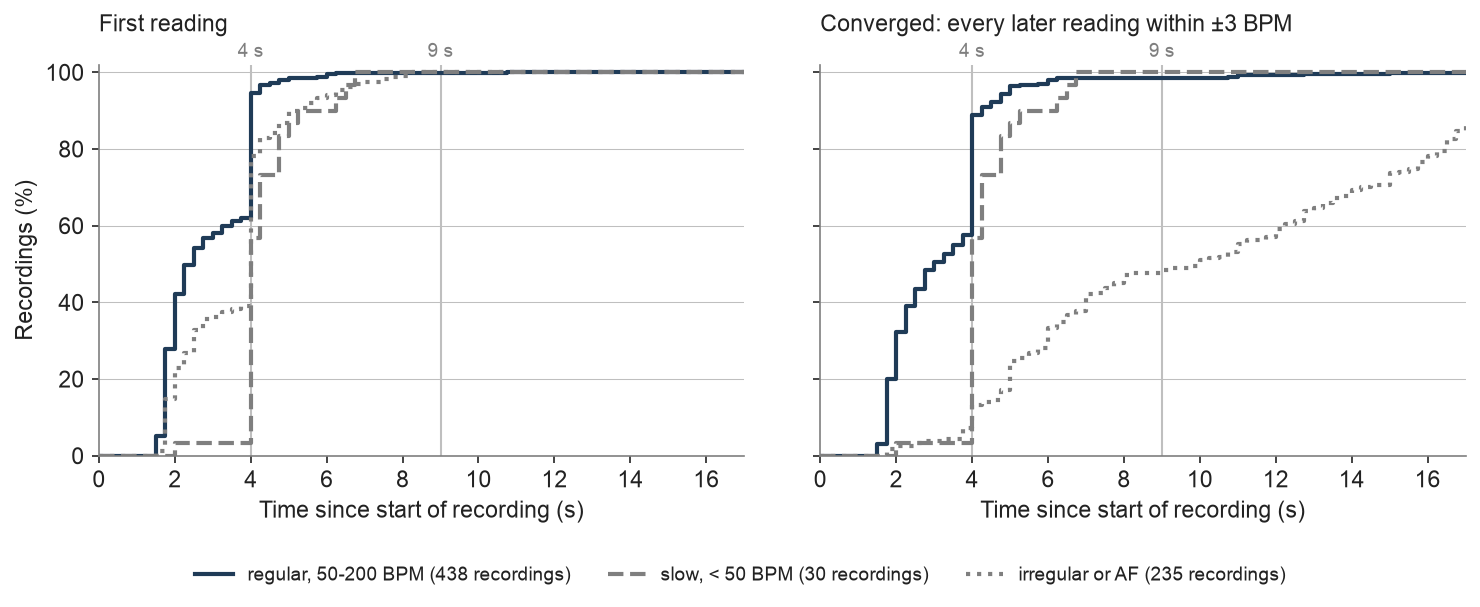
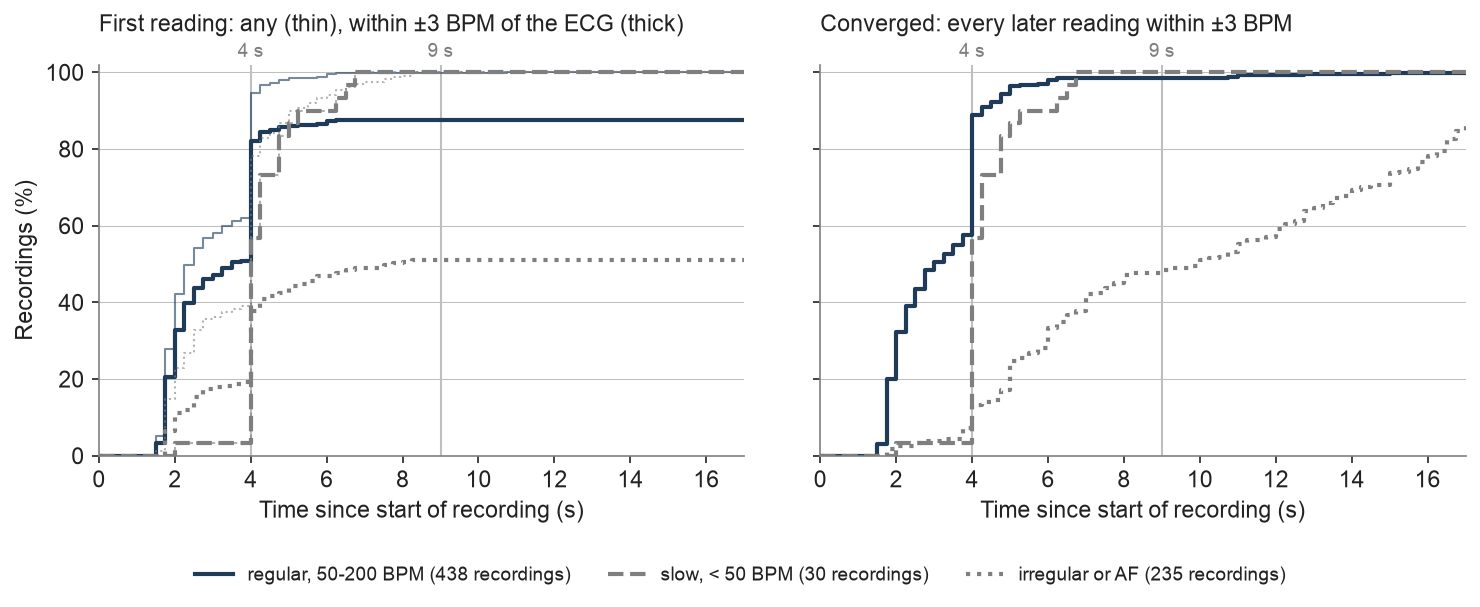
Show first-reading accuracy in the convergence figure

diff --git a/docs/results.md b/docs/results.md
@@ -80,7 +80,9 @@ ECG HR (EFAST) in 95.7 %.
 
 ## 4. Time to converge
 Converged: from that reading on, every reading to the end of the recording is within ±3 BPM.
-Left panel: share of recordings with a first reading by each time; right: share converged.
+Left panel: share of recordings with a first reading by each time (thin) and with a first reading
+within ±3 BPM of the ECG (thick); the gap between the two is the share whose first reading is off
+by more than 3 BPM. Right: share converged.
 
 <!-- begin:convergence -->
 | Group | Recordings | First reading, median | Converged: median / 75 % / 90 % by | Converged by 4 / 6 / 9 / 12 s | Not converged * |
